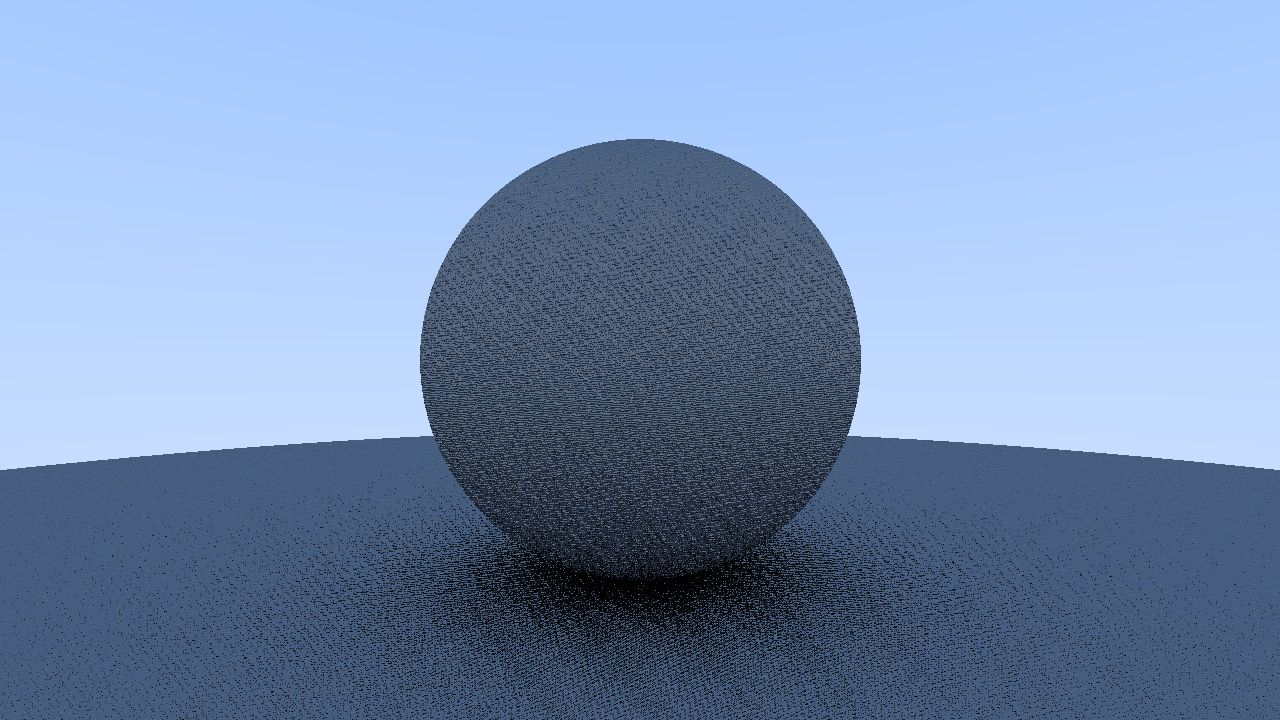
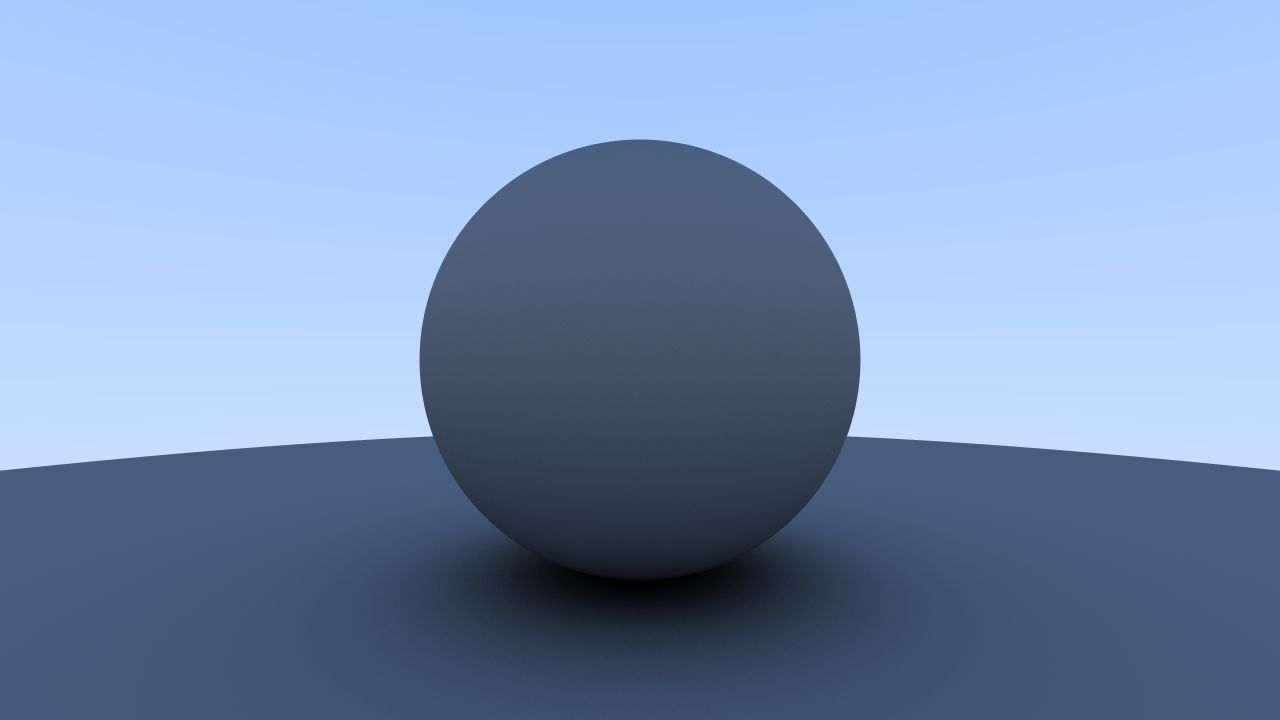
Fixed progressive rendering. Added anti-aliasing.

Changed region(s): [[0.1562, 0.3056, 0.8438, 1.0]]

diff --git a/src/main.cpp b/src/main.cpp
@@ -13,9 +13,6 @@ protected:
 
 	bool init(int argc, const char* argv[]) override
 	{
-		m_should_render = true;
-		m_num_frames = 0;
-
 		if (!load_shaders())
 			return false;
 
@@ -52,15 +49,20 @@ protected:
 
 	void update(double delta) override
 	{
+		// Check if camera had moved.
+		check_camera_movement();
+
 		// Update camera.
 		update_camera();
 
-		// Perform path tracing if required
-		//if (m_should_render)
-			path_trace();
+		// Perform path tracing 
+		path_trace();
 
 		// Render image to screen
 		render_to_backbuffer();
+
+		// Set back to false before checking movement next frame.
+		m_camera_moved = false;
 	}
 
 	// -----------------------------------------------------------------------------------------------------------------------------------
@@ -79,7 +81,7 @@ protected:
 		settings.resizable = false;
 		settings.width = 1280;
 		settings.height = 720;
-		settings.title = "Progressive Path Tracer - Dihara Wijetunga (c) 2018";
+		settings.title = "GPU Path Tracer - Dihara Wijetunga (c) 2018";
 
 		return settings;
 	}
@@ -148,19 +150,27 @@ private:
 
 	// -----------------------------------------------------------------------------------------------------------------------------------
 
+	void check_camera_movement()
+	{
+		if (m_mouse_look && (m_mouse_delta_x != 0 || m_mouse_delta_y != 0) || m_heading_speed != 0.0f || m_sideways_speed != 0.0f)
+			m_camera_moved = true;
+		else
+			m_camera_moved = false;
+	}
+
+	// -----------------------------------------------------------------------------------------------------------------------------------
+
 	void path_trace()
 	{
-		// Swap
-		dw::Texture* temp = m_read;
-		m_read = m_write;
-		m_write = temp;
-
-		m_read->bind_image(0, 0, 0, GL_READ_ONLY, GL_RGBA32F);
-		m_write->bind_image(1, 0, 0, GL_WRITE_ONLY, GL_RGBA32F);
-
+		m_image->bind_image(0, 0, 0, GL_READ_WRITE, GL_RGBA32F);
+		
 		m_path_tracer_program->use();
 
+		if (m_camera_moved)
+			m_num_frames = 0;
+
 		m_path_tracer_program->set_uniform("u_NumFrames", m_num_frames);
+		m_path_tracer_program->set_uniform("u_Accum", float(m_num_frames) / float(m_num_frames + 1));
 		m_path_tracer_program->set_uniform("u_FOV", glm::radians(m_main_camera->m_fov));
 		m_path_tracer_program->set_uniform("u_AspectRatio", m_aspect_ratio);
 		m_path_tracer_program->set_uniform("u_Resolution", m_resolution);
@@ -171,7 +181,6 @@ private:
 
 		glMemoryBarrier(GL_SHADER_IMAGE_ACCESS_BARRIER_BIT);
 
-		m_should_render = false;
 		m_num_frames++;
 	}
 
@@ -188,7 +197,7 @@ private:
 		m_present_program->use();
 
 		if (m_present_program->set_uniform("s_Image", 0))
-			m_write->bind(0);
+			m_image->bind(0);
 
 		glDrawArrays(GL_TRIANGLES, 0, 6);
 	}
@@ -250,17 +259,9 @@ private:
 
 	void create_image()
 	{
-		m_image1 = std::make_unique<dw::Texture2D>(m_width, m_height, 1, 1, 1, GL_RGBA32F, GL_RGBA, GL_FLOAT);
-		m_image1->set_min_filter(GL_LINEAR);
-		m_image1->set_wrapping(GL_CLAMP_TO_EDGE, GL_CLAMP_TO_EDGE, GL_CLAMP_TO_EDGE);
-
-		m_write = m_image1.get();
-
-		m_image2 = std::make_unique<dw::Texture2D>(m_width, m_height, 1, 1, 1, GL_RGBA32F, GL_RGBA, GL_FLOAT);
-		m_image2->set_min_filter(GL_LINEAR);
-		m_image2->set_wrapping(GL_CLAMP_TO_EDGE, GL_CLAMP_TO_EDGE, GL_CLAMP_TO_EDGE);
-
-		m_read = m_image1.get();
+		m_image = std::make_unique<dw::Texture2D>(m_width, m_height, 1, 1, 1, GL_RGBA32F, GL_RGBA, GL_FLOAT);
+		m_image->set_min_filter(GL_LINEAR);
+		m_image->set_wrapping(GL_CLAMP_TO_EDGE, GL_CLAMP_TO_EDGE, GL_CLAMP_TO_EDGE);
 	}
 
 	// -----------------------------------------------------------------------------------------------------------------------------------
@@ -320,29 +321,24 @@ private:
 	// -----------------------------------------------------------------------------------------------------------------------------------
 
 private:
-	bool m_should_render;
-
 	// GPU Resources.
 	std::unique_ptr<dw::Shader>  m_present_vs;
 	std::unique_ptr<dw::Shader>  m_present_fs;
 	std::unique_ptr<dw::Program> m_present_program;
 	std::unique_ptr<dw::Shader>  m_path_tracer_cs;
 	std::unique_ptr<dw::Program> m_path_tracer_program;
-	std::unique_ptr<dw::Texture> m_image1;
-	std::unique_ptr<dw::Texture> m_image2;
-	dw::Texture* m_read;
-	dw::Texture* m_write;
+	std::unique_ptr<dw::Texture> m_image;
 	std::unique_ptr<dw::VertexBuffer> m_quad_vbo;
 	std::unique_ptr<dw::VertexArray>  m_quad_vao;
 
 	// Uniforms
 	float m_aspect_ratio;
 	glm::vec2 m_resolution;
-	int32_t m_num_frames;
+	int32_t m_num_frames = 0;
 
 	// Camera controls.
 	bool m_mouse_look = false;
-	bool m_debug_mode = false;
+	bool m_camera_moved = false;
 	float m_heading_speed = 0.0f;
 	float m_sideways_speed = 0.0f;
 	float m_camera_sensitivity = 0.005f;
